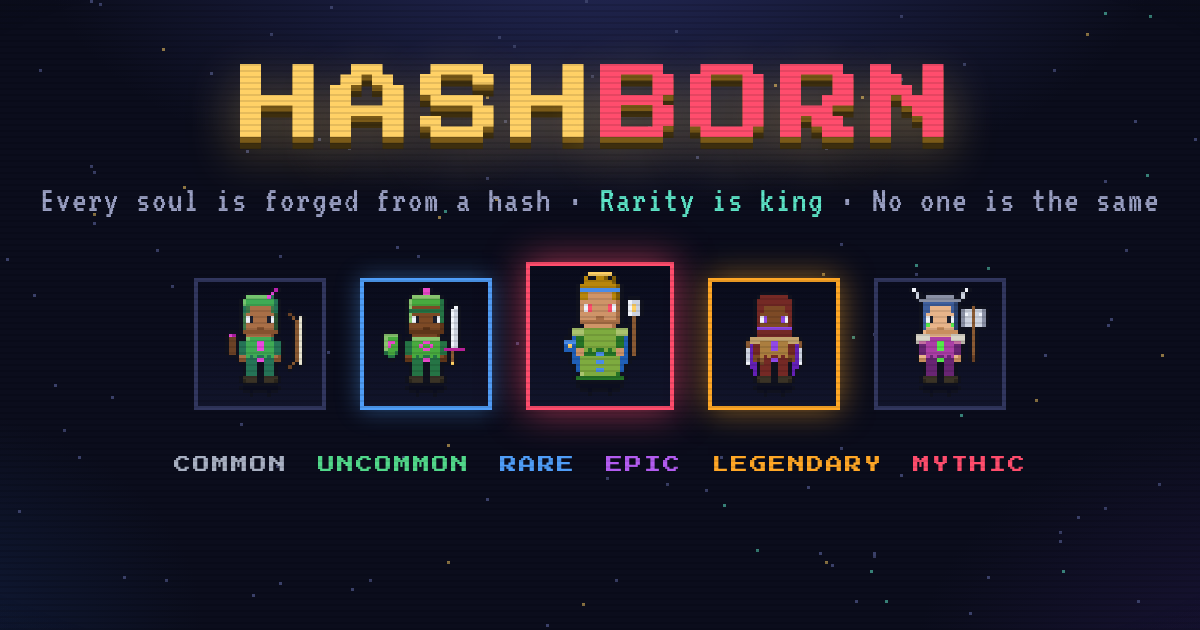
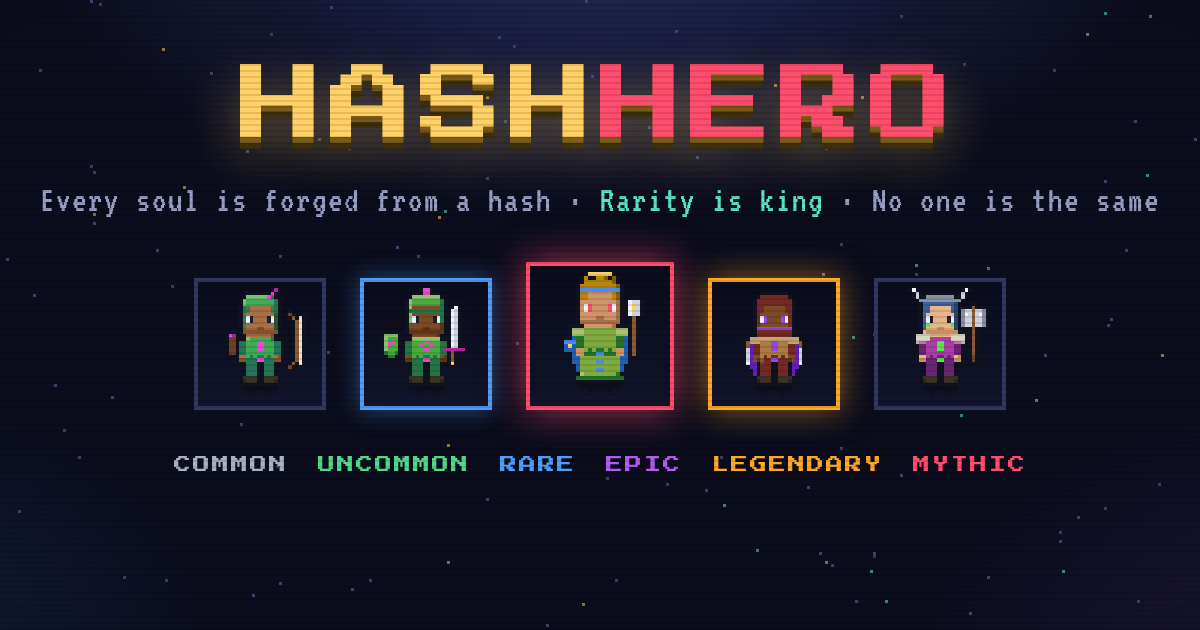
Rebrand HASHBORN to HASHHERO for the move to the hashhero repo
Renames the logo, titles, OG/Twitter meta (URLs now point at the
hashhero GitHub Pages site), daily-hero seed prefix, localStorage keys,
README, and the og-image artwork.

https://claude.ai/code/session_01Ls4AHytsmfD17gP9gtZMXL

Changed region(s): [[0.4933, 0.0905, 0.6475, 0.2413], [0.7092, 0.0905, 0.8017, 0.2413]]

diff --git a/index.html b/index.html
@@ -3,26 +3,26 @@
 <head>
 <meta charset="UTF-8" />
 <meta name="viewport" content="width=device-width, initial-scale=1.0" />
-<title>HASHBORN — every soul is forged from a hash</title>
+<title>HASHHERO — every soul is forged from a hash</title>
 <meta name="description" content="A pixel-art mini RPG where your hero is deterministically forged from a SHA-256 hash. Scan other players' gene QR codes to fuse and mutate. Rarity is king. No one is the same." />
 <meta name="theme-color" content="#0b0d1c" />
 
 <!-- Open Graph (Facebook, LINE, Discord, …) -->
 <meta property="og:type" content="website" />
-<meta property="og:site_name" content="HASHBORN" />
-<meta property="og:title" content="HASHBORN — every soul is forged from a hash" />
+<meta property="og:site_name" content="HASHHERO" />
+<meta property="og:title" content="HASHHERO — every soul is forged from a hash" />
 <meta property="og:description" content="A pixel-art mini RPG: your hero is forged from a SHA-256 hash — provably-fair rarity, an endless dungeon, and QR gene fusing with other players. No one is the same." />
-<meta property="og:url" content="https://qazwsx-maker.github.io/playground/" />
-<meta property="og:image" content="https://qazwsx-maker.github.io/playground/og-image.png" />
+<meta property="og:url" content="https://qazwsx-maker.github.io/hashhero/" />
+<meta property="og:image" content="https://qazwsx-maker.github.io/hashhero/og-image.png" />
 <meta property="og:image:width" content="1200" />
 <meta property="og:image:height" content="630" />
-<meta property="og:image:alt" content="HASHBORN — pixel-art heroes of every rarity, forged from hashes" />
+<meta property="og:image:alt" content="HASHHERO — pixel-art heroes of every rarity, forged from hashes" />
 
 <!-- Twitter / X -->
 <meta name="twitter:card" content="summary_large_image" />
-<meta name="twitter:title" content="HASHBORN — every soul is forged from a hash" />
+<meta name="twitter:title" content="HASHHERO — every soul is forged from a hash" />
 <meta name="twitter:description" content="A pixel-art mini RPG: heroes forged from SHA-256 hashes, provably-fair rarity, QR gene fusing. No one is the same." />
-<meta name="twitter:image" content="https://qazwsx-maker.github.io/playground/og-image.png" />
+<meta name="twitter:image" content="https://qazwsx-maker.github.io/hashhero/og-image.png" />
 <link rel="preconnect" href="https://fonts.googleapis.com" />
 <link rel="preconnect" href="https://fonts.gstatic.com" crossorigin />
 <link href="https://fonts.googleapis.com/css2?family=Press+Start+2P&family=VT323&display=swap" rel="stylesheet" />
@@ -34,7 +34,7 @@
 <canvas id="bgStars"></canvas>
 
 <header>
-  <div class="logo">HASH<span class="accent">BORN</span></div>
+  <div class="logo">HASH<span class="accent">HERO</span></div>
   <div class="tagline">Every soul is forged from a hash · <b>Rarity is king</b> · No one is the same</div>
 </header>
 
@@ -242,7 +242,7 @@
 </main>
 
 <footer>
-  HASHBORN · a deterministic pixel RPG · your heroes live in <i>this browser</i> — share genes, not saves
+  HASHHERO · a deterministic pixel RPG · your heroes live in <i>this browser</i> — share genes, not saves
 </footer>
 
 <script src="https://cdn.jsdelivr.net/npm/qrcode-generator@1.4.4/qrcode.min.js" defer></script>

diff --git a/game.js b/game.js
@@ -1,7 +1,7 @@
 'use strict';
 
 /* ============================================================
-   HASHBORN — every soul is forged from a hash.
+   HASHHERO — every soul is forged from a hash.
    Deterministic hero generation: same seed → same hero, forever.
    ============================================================ */
 
@@ -684,7 +684,7 @@ if (typeof document !== 'undefined') (function () {
   screens.forEach(s => $(`tab-${s}`).addEventListener('click', () => show(s)));
 
   /* ----- hall persistence (with lineage) ----- */
-  const STORE = 'hashborn.hall.v1';
+  const STORE = 'hashhero.hall.v1';
   const loadHall = () => { try { return JSON.parse(localStorage.getItem(STORE)) || []; } catch { return []; } };
   const saveHall = h => localStorage.setItem(STORE, JSON.stringify(h.slice(0, 200)));
 
@@ -790,7 +790,7 @@ if (typeof document !== 'undefined') (function () {
   els.btnRandom.addEventListener('click', () => { els.seedInput.value = randomUUID(); summon(els.seedInput.value); });
   els.btnDaily.addEventListener('click', () => {
     const d = new Date().toISOString().slice(0, 10);
-    els.seedInput.value = `HASHBORN-DAILY-${d}`;
+    els.seedInput.value = `HASHHERO-DAILY-${d}`;
     summon(els.seedInput.value);
   });
   els.btnAgain.addEventListener('click', () => { els.seedInput.value = randomUUID(); summon(els.seedInput.value); });
@@ -867,7 +867,7 @@ if (typeof document !== 'undefined') (function () {
     els.btnScan.classList.add('hidden');
     els.scanVideo.srcObject = scanStream;
     await els.scanVideo.play().catch(() => {});
-    els.scanMsg.textContent = 'Aim at a HASHBORN gene QR…';
+    els.scanMsg.textContent = 'Aim at a HASHHERO gene QR…';
 
     const detector = ('BarcodeDetector' in window)
       ? new BarcodeDetector({ formats: ['qr_code'] }).detect.bind(new BarcodeDetector({ formats: ['qr_code'] }))
@@ -901,7 +901,7 @@ if (typeof document !== 'undefined') (function () {
         const seed = parseGene(raw);
         stopScan();
         if (seed) await loadForeign(seed);
-        else note('That QR is not a HASHBORN gene.', true);
+        else note('That QR is not a HASHHERO gene.', true);
       }
     };
     scanRAF = requestAnimationFrame(loop);
@@ -963,7 +963,7 @@ if (typeof document !== 'undefined') (function () {
   els.btnMutate.addEventListener('click', async () => {
     if (!currentHero || !foreignHero) return;
     const pair = [currentHero.hash.slice(0, 12), foreignHero.hash.slice(0, 12)].sort().join('x');
-    const ctKey = 'hashborn.mut.' + pair;
+    const ctKey = 'hashhero.mut.' + pair;
     const n = (parseInt(localStorage.getItem(ctKey)) || 0) + 1;
     localStorage.setItem(ctKey, n);
     const child = `MUT:${pair}:${n}`;

diff --git a/README.md b/README.md
@@ -1,4 +1,4 @@
-# ⚒ HASHBORN
+# ⚒ HASHHERO
 
 > **Every soul is forged from a hash · Rarity is king · No one is the same**
 